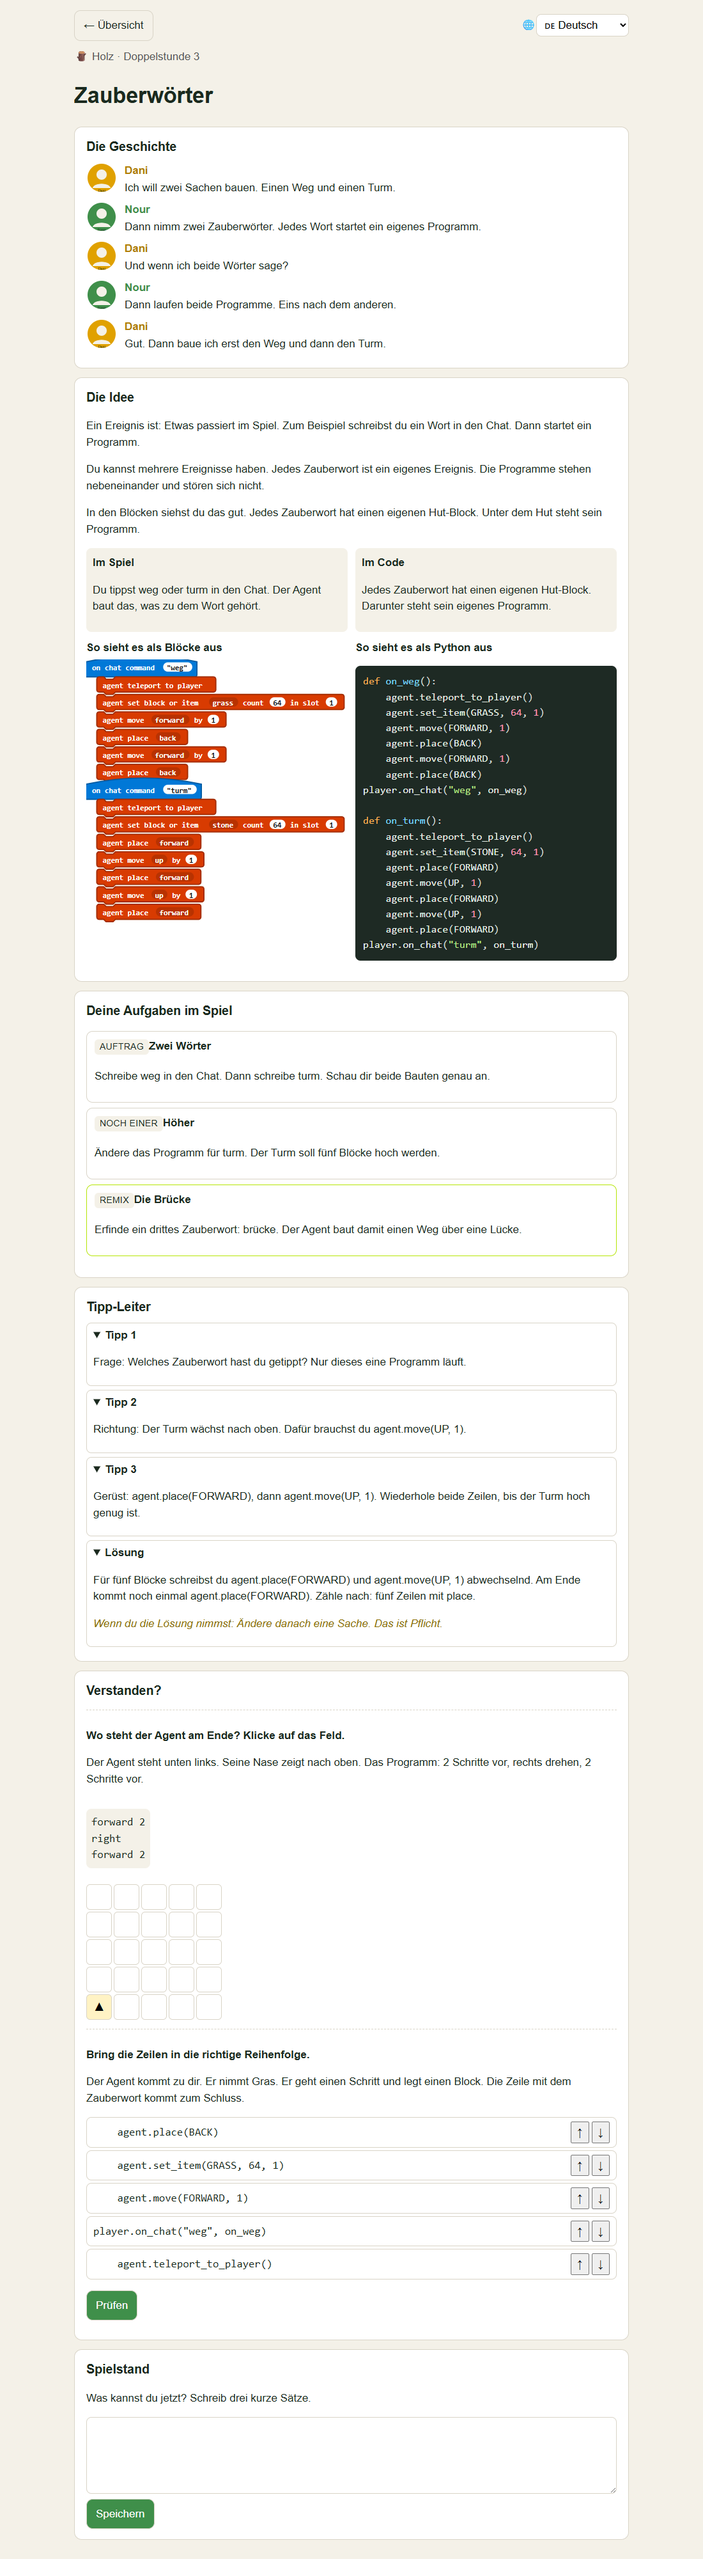
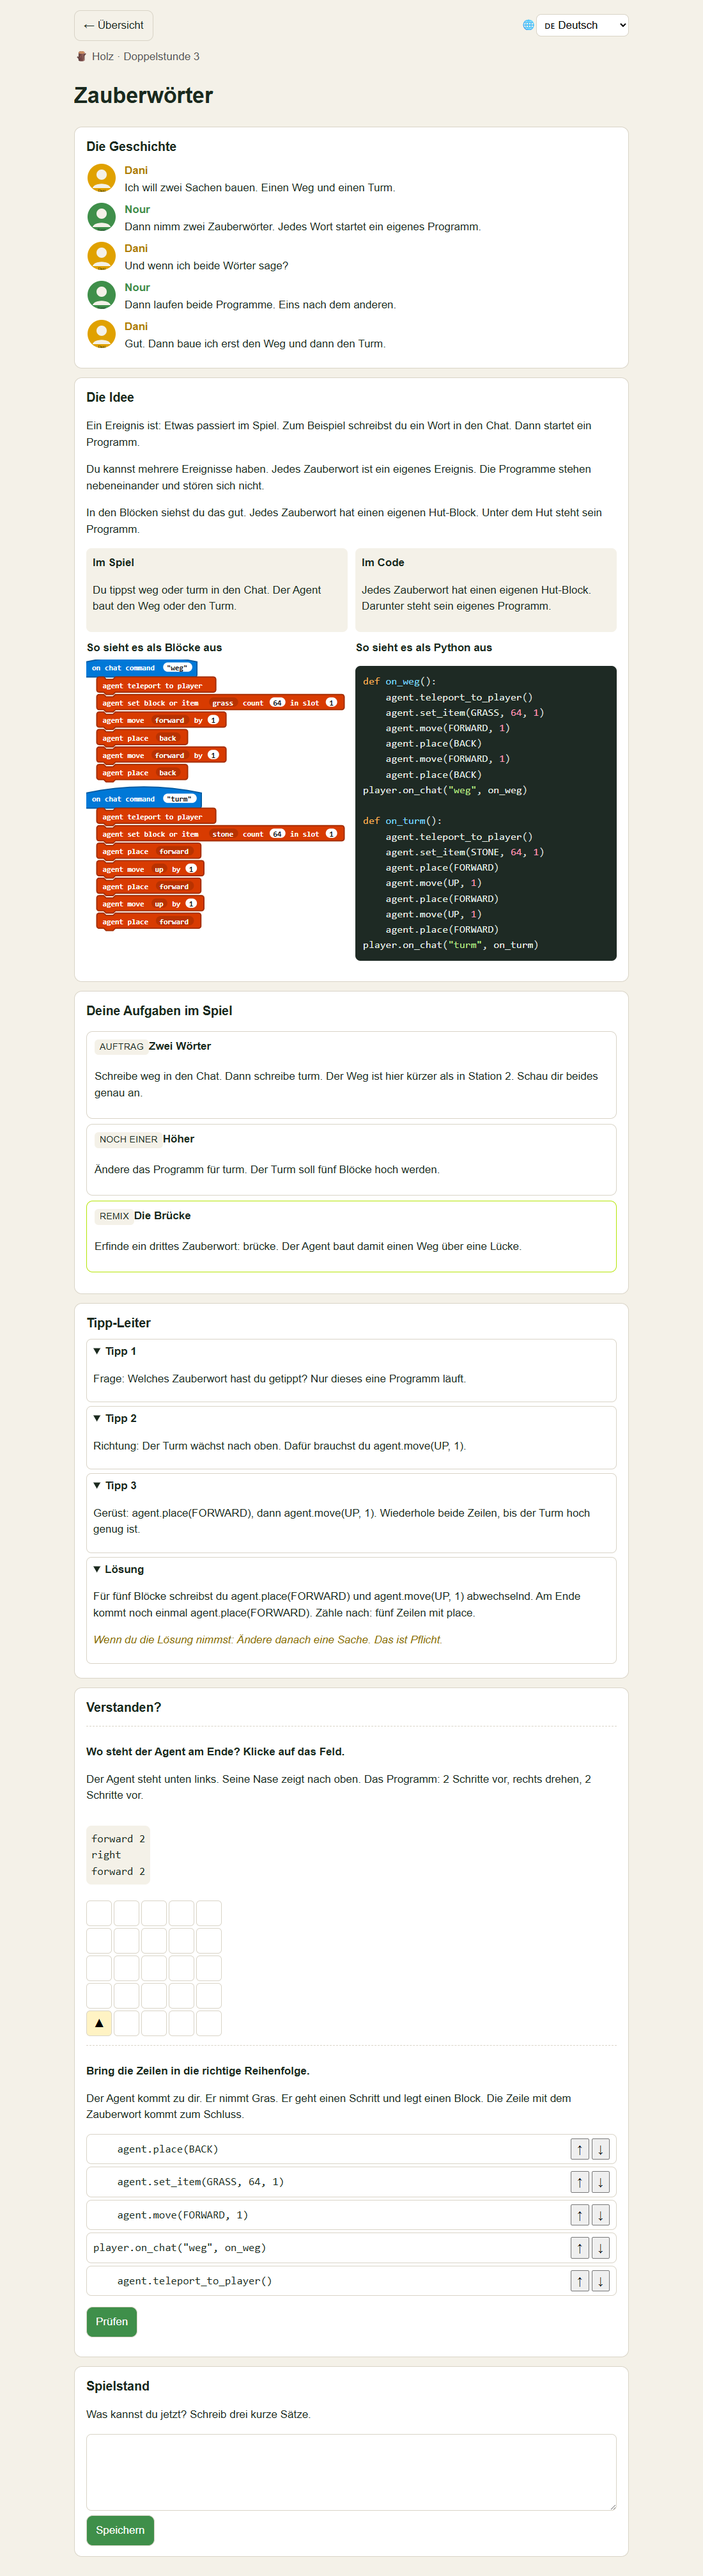
fix(content): s01 magic-word position, safe tip, s03 wording; block view hat gap
Der s01-Konzeptabsatz behauptete "Ganz unten steht das Zauberwort" — richtig
fuer das Python, falsch fuer die Blockgrafik direkt daneben, wo der Hut oben
sitzt. Er benennt jetzt beide Ansichten.

Die s01-Loesung sagte "ersetzt du hi durch hallo". In player.on_chat("hi",
on_hi) steht hi zweimal; stures Ersetzen erzeugt on_hallo und damit einen
Fehler. Jetzt: nur das Wort in den Anfuehrungszeichen.

Boss-Check Holz stand doppelt: die Saetze zu Tipp-Leiter, Share-Link und den
drei Saetzen sind wortgleich ui.bossCheckHint, das course-def.mjs ohnehin
anhaengt. Aufgabe und die drei Fragen bleiben, der Rest faellt weg.

Weiter: s03-Auftrag warnt vor der Verwechslung mit dem laengeren Weg aus
DS 2; zwei Formulierungen konkreter; mood der Schlusszeile nachdenklich
statt begeistert.

Die Parsons-Zeilen von s02 bekommen dieselbe Einrueckung wie s01/s03.
BlockView.layout() setzt vor jedem weiteren Hut eine halbe Zeile Luft —
die beiden Programme von s03 klebten sonst aneinander.

Claude-Session: https://claude.ai/code/session_019PenMpZcTxKvhNptZMbVVE

Changed region(s): [[0.1236, 0.0312, 0.8655, 0.9373], [0.4018, 0.0625, 0.4945, 0.0937], [0.2782, 0.7498, 0.3091, 0.7811]]

diff --git a/src/i18n/de.js b/src/i18n/de.js
@@ -85,7 +85,7 @@ export default {
         { kind: 'nochEiner', title: 'Dein Wort', text: 'Ändere das Zauberwort von hi zu hallo. Ändere die Schritte von 1 auf 3. Probier es aus.' },
         { kind: 'remix', title: 'Noch ein Wort', text: 'Erfinde ein zweites Zauberwort. Der Agent soll damit etwas anderes machen. Zeig es deinem Partner oder deiner Partnerin.' },
       ],
-      tipSolution: 'Schreibe agent.teleport_to_player() und darunter agent.move(FORWARD, 3). In der letzten Zeile ersetzt du hi durch hallo. Dann tippst du hallo in den Chat.',
+      tipSolution: 'Schreibe agent.teleport_to_player() und darunter agent.move(FORWARD, 3). In der letzten Zeile ersetzt du "hi" durch "hallo". Nur das Wort in den Anführungszeichen. Dann tippst du hallo in den Chat.',
       exercises: [
         { prompt: 'Der Agent steht unten in der Mitte. Seine Nase zeigt nach oben. Das Programm: 1 Schritt vor.' },
         { prompt: 'Der Agent soll zu dir kommen und einen Schritt gehen. Die Zeile mit dem Zauberwort kommt zum Schluss.' },
@@ -181,11 +181,11 @@ export default {
       title: 'Zauberwörter',
       storyShort: 'Ein Wort im Chat ist ein Ereignis. Jedes Zauberwort startet sein eigenes Programm. Du kannst mehrere Zauberwörter haben.',
       bridge: {
-        game: 'Du tippst weg oder turm in den Chat. Der Agent baut das, was zu dem Wort gehört.',
+        game: 'Du tippst weg oder turm in den Chat. Der Agent baut den Weg oder den Turm.',
         code: 'Jedes Zauberwort hat einen eigenen Hut-Block. Darunter steht sein eigenes Programm.',
       },
       tasks: [
-        { kind: 'auftrag', title: 'Zwei Wörter', text: 'Schreibe weg in den Chat. Dann schreibe turm. Schau dir beide Bauten genau an.' },
+        { kind: 'auftrag', title: 'Zwei Wörter', text: 'Schreibe weg in den Chat. Dann schreibe turm. Der Weg ist hier kürzer als in Station 2. Schau dir beides genau an.' },
         { kind: 'nochEiner', title: 'Höher', text: 'Ändere das Programm für turm. Der Turm soll fünf Blöcke hoch werden.' },
         { kind: 'remix', title: 'Die Brücke', text: 'Erfinde ein drittes Zauberwort: brücke. Der Agent baut damit einen Weg über eine Lücke.' },
       ],
@@ -230,7 +230,9 @@ export default {
       ],
       bossCheck: {
         title: 'Boss-Check Holz: Das L',
-        task: 'Der Agent legt ein L aus Blöcken: 4 Blöcke geradeaus, dann Ecke, dann 2 Blöcke. Ohne Tipp-Leiter. Gib den Share-Link ab und schreibe drei Sätze: Was macht dein Programm? Warum ist die Reihenfolge wichtig? Was war schwer?',
+        // Ohne Tipp-Leiter, Share-Link und die drei Saetze stehen schon in ui.bossCheckHint;
+        // course-def.mjs haengt den Hinweis hinter diese Aufgabe (sonst stuende alles doppelt da).
+        task: 'Der Agent legt ein L: erst 4 Blöcke geradeaus, dann 2 um die Ecke. Was macht dein Programm? Warum ist die Reihenfolge wichtig? Was war schwer?',
       },
     },
   },

diff --git a/src/i18n/ar.js b/src/i18n/ar.js
@@ -165,7 +165,7 @@ export default {
           "text": "Erfinde ein zweites Zauberwort. Der Agent soll damit etwas anderes machen. Zeig es deinem Partner oder deiner Partnerin."
         }
       ],
-      "tipSolution": "Schreibe agent.teleport_to_player() und darunter agent.move(FORWARD, 3). In der letzten Zeile ersetzt du hi durch hallo. Dann tippst du hallo in den Chat.",
+      "tipSolution": "Schreibe agent.teleport_to_player() und darunter agent.move(FORWARD, 3). In der letzten Zeile ersetzt du \"hi\" durch \"hallo\". Nur das Wort in den Anführungszeichen. Dann tippst du hallo in den Chat.",
       "exercises": [
         {
           "prompt": "Der Agent steht unten in der Mitte. Seine Nase zeigt nach oben. Das Programm: 1 Schritt vor."
@@ -353,14 +353,14 @@ export default {
       "title": "Zauberwörter",
       "storyShort": "Ein Wort im Chat ist ein Ereignis. Jedes Zauberwort startet sein eigenes Programm. Du kannst mehrere Zauberwörter haben.",
       "bridge": {
-        "game": "Du tippst weg oder turm in den Chat. Der Agent baut das, was zu dem Wort gehört.",
+        "game": "Du tippst weg oder turm in den Chat. Der Agent baut den Weg oder den Turm.",
         "code": "Jedes Zauberwort hat einen eigenen Hut-Block. Darunter steht sein eigenes Programm."
       },
       "tasks": [
         {
           "kind": "auftrag",
           "title": "Zwei Wörter",
-          "text": "Schreibe weg in den Chat. Dann schreibe turm. Schau dir beide Bauten genau an."
+          "text": "Schreibe weg in den Chat. Dann schreibe turm. Der Weg ist hier kürzer als in Station 2. Schau dir beides genau an."
         },
         {
           "kind": "nochEiner",
@@ -454,7 +454,7 @@ export default {
       ],
       "bossCheck": {
         "title": "Boss-Check Holz: Das L",
-        "task": "Der Agent legt ein L aus Blöcken: 4 Blöcke geradeaus, dann Ecke, dann 2 Blöcke. Ohne Tipp-Leiter. Gib den Share-Link ab und schreibe drei Sätze: Was macht dein Programm? Warum ist die Reihenfolge wichtig? Was war schwer?"
+        "task": "Der Agent legt ein L: erst 4 Blöcke geradeaus, dann 2 um die Ecke. Was macht dein Programm? Warum ist die Reihenfolge wichtig? Was war schwer?"
       }
     }
   }

diff --git a/src/i18n/en.js b/src/i18n/en.js
@@ -165,7 +165,7 @@ export default {
           "text": "Erfinde ein zweites Zauberwort. Der Agent soll damit etwas anderes machen. Zeig es deinem Partner oder deiner Partnerin."
         }
       ],
-      "tipSolution": "Schreibe agent.teleport_to_player() und darunter agent.move(FORWARD, 3). In der letzten Zeile ersetzt du hi durch hallo. Dann tippst du hallo in den Chat.",
+      "tipSolution": "Schreibe agent.teleport_to_player() und darunter agent.move(FORWARD, 3). In der letzten Zeile ersetzt du \"hi\" durch \"hallo\". Nur das Wort in den Anführungszeichen. Dann tippst du hallo in den Chat.",
       "exercises": [
         {
           "prompt": "Der Agent steht unten in der Mitte. Seine Nase zeigt nach oben. Das Programm: 1 Schritt vor."
@@ -353,14 +353,14 @@ export default {
       "title": "Zauberwörter",
       "storyShort": "Ein Wort im Chat ist ein Ereignis. Jedes Zauberwort startet sein eigenes Programm. Du kannst mehrere Zauberwörter haben.",
       "bridge": {
-        "game": "Du tippst weg oder turm in den Chat. Der Agent baut das, was zu dem Wort gehört.",
+        "game": "Du tippst weg oder turm in den Chat. Der Agent baut den Weg oder den Turm.",
         "code": "Jedes Zauberwort hat einen eigenen Hut-Block. Darunter steht sein eigenes Programm."
       },
       "tasks": [
         {
           "kind": "auftrag",
           "title": "Zwei Wörter",
-          "text": "Schreibe weg in den Chat. Dann schreibe turm. Schau dir beide Bauten genau an."
+          "text": "Schreibe weg in den Chat. Dann schreibe turm. Der Weg ist hier kürzer als in Station 2. Schau dir beides genau an."
         },
         {
           "kind": "nochEiner",
@@ -454,7 +454,7 @@ export default {
       ],
       "bossCheck": {
         "title": "Boss-Check Holz: Das L",
-        "task": "Der Agent legt ein L aus Blöcken: 4 Blöcke geradeaus, dann Ecke, dann 2 Blöcke. Ohne Tipp-Leiter. Gib den Share-Link ab und schreibe drei Sätze: Was macht dein Programm? Warum ist die Reihenfolge wichtig? Was war schwer?"
+        "task": "Der Agent legt ein L: erst 4 Blöcke geradeaus, dann 2 um die Ecke. Was macht dein Programm? Warum ist die Reihenfolge wichtig? Was war schwer?"
       }
     }
   }

diff --git a/src/i18n/es.js b/src/i18n/es.js
@@ -166,7 +166,7 @@ export default {
           "text": "Erfinde ein zweites Zauberwort. Der Agent soll damit etwas anderes machen. Zeig es deinem Partner oder deiner Partnerin."
         }
       ],
-      "tipSolution": "Schreibe agent.teleport_to_player() und darunter agent.move(FORWARD, 3). In der letzten Zeile ersetzt du hi durch hallo. Dann tippst du hallo in den Chat.",
+      "tipSolution": "Schreibe agent.teleport_to_player() und darunter agent.move(FORWARD, 3). In der letzten Zeile ersetzt du \"hi\" durch \"hallo\". Nur das Wort in den Anführungszeichen. Dann tippst du hallo in den Chat.",
       "exercises": [
         {
           "prompt": "Der Agent steht unten in der Mitte. Seine Nase zeigt nach oben. Das Programm: 1 Schritt vor."
@@ -354,14 +354,14 @@ export default {
       "title": "Zauberwörter",
       "storyShort": "Ein Wort im Chat ist ein Ereignis. Jedes Zauberwort startet sein eigenes Programm. Du kannst mehrere Zauberwörter haben.",
       "bridge": {
-        "game": "Du tippst weg oder turm in den Chat. Der Agent baut das, was zu dem Wort gehört.",
+        "game": "Du tippst weg oder turm in den Chat. Der Agent baut den Weg oder den Turm.",
         "code": "Jedes Zauberwort hat einen eigenen Hut-Block. Darunter steht sein eigenes Programm."
       },
       "tasks": [
         {
           "kind": "auftrag",
           "title": "Zwei Wörter",
-          "text": "Schreibe weg in den Chat. Dann schreibe turm. Schau dir beide Bauten genau an."
+          "text": "Schreibe weg in den Chat. Dann schreibe turm. Der Weg ist hier kürzer als in Station 2. Schau dir beides genau an."
         },
         {
           "kind": "nochEiner",
@@ -455,7 +455,7 @@ export default {
       ],
       "bossCheck": {
         "title": "Boss-Check Holz: Das L",
-        "task": "Der Agent legt ein L aus Blöcken: 4 Blöcke geradeaus, dann Ecke, dann 2 Blöcke. Ohne Tipp-Leiter. Gib den Share-Link ab und schreibe drei Sätze: Was macht dein Programm? Warum ist die Reihenfolge wichtig? Was war schwer?"
+        "task": "Der Agent legt ein L: erst 4 Blöcke geradeaus, dann 2 um die Ecke. Was macht dein Programm? Warum ist die Reihenfolge wichtig? Was war schwer?"
       }
     }
   }

diff --git a/src/i18n/it.js b/src/i18n/it.js
@@ -165,7 +165,7 @@ export default {
           "text": "Erfinde ein zweites Zauberwort. Der Agent soll damit etwas anderes machen. Zeig es deinem Partner oder deiner Partnerin."
         }
       ],
-      "tipSolution": "Schreibe agent.teleport_to_player() und darunter agent.move(FORWARD, 3). In der letzten Zeile ersetzt du hi durch hallo. Dann tippst du hallo in den Chat.",
+      "tipSolution": "Schreibe agent.teleport_to_player() und darunter agent.move(FORWARD, 3). In der letzten Zeile ersetzt du \"hi\" durch \"hallo\". Nur das Wort in den Anführungszeichen. Dann tippst du hallo in den Chat.",
       "exercises": [
         {
           "prompt": "Der Agent steht unten in der Mitte. Seine Nase zeigt nach oben. Das Programm: 1 Schritt vor."
@@ -353,14 +353,14 @@ export default {
       "title": "Zauberwörter",
       "storyShort": "Ein Wort im Chat ist ein Ereignis. Jedes Zauberwort startet sein eigenes Programm. Du kannst mehrere Zauberwörter haben.",
       "bridge": {
-        "game": "Du tippst weg oder turm in den Chat. Der Agent baut das, was zu dem Wort gehört.",
+        "game": "Du tippst weg oder turm in den Chat. Der Agent baut den Weg oder den Turm.",
         "code": "Jedes Zauberwort hat einen eigenen Hut-Block. Darunter steht sein eigenes Programm."
       },
       "tasks": [
         {
           "kind": "auftrag",
           "title": "Zwei Wörter",
-          "text": "Schreibe weg in den Chat. Dann schreibe turm. Schau dir beide Bauten genau an."
+          "text": "Schreibe weg in den Chat. Dann schreibe turm. Der Weg ist hier kürzer als in Station 2. Schau dir beides genau an."
         },
         {
           "kind": "nochEiner",
@@ -454,7 +454,7 @@ export default {
       ],
       "bossCheck": {
         "title": "Boss-Check Holz: Das L",
-        "task": "Der Agent legt ein L aus Blöcken: 4 Blöcke geradeaus, dann Ecke, dann 2 Blöcke. Ohne Tipp-Leiter. Gib den Share-Link ab und schreibe drei Sätze: Was macht dein Programm? Warum ist die Reihenfolge wichtig? Was war schwer?"
+        "task": "Der Agent legt ein L: erst 4 Blöcke geradeaus, dann 2 um die Ecke. Was macht dein Programm? Warum ist die Reihenfolge wichtig? Was war schwer?"
       }
     }
   }

diff --git a/src/i18n/uk.js b/src/i18n/uk.js
@@ -166,7 +166,7 @@ export default {
           "text": "Erfinde ein zweites Zauberwort. Der Agent soll damit etwas anderes machen. Zeig es deinem Partner oder deiner Partnerin."
         }
       ],
-      "tipSolution": "Schreibe agent.teleport_to_player() und darunter agent.move(FORWARD, 3). In der letzten Zeile ersetzt du hi durch hallo. Dann tippst du hallo in den Chat.",
+      "tipSolution": "Schreibe agent.teleport_to_player() und darunter agent.move(FORWARD, 3). In der letzten Zeile ersetzt du \"hi\" durch \"hallo\". Nur das Wort in den Anführungszeichen. Dann tippst du hallo in den Chat.",
       "exercises": [
         {
           "prompt": "Der Agent steht unten in der Mitte. Seine Nase zeigt nach oben. Das Programm: 1 Schritt vor."
@@ -354,14 +354,14 @@ export default {
       "title": "Zauberwörter",
       "storyShort": "Ein Wort im Chat ist ein Ereignis. Jedes Zauberwort startet sein eigenes Programm. Du kannst mehrere Zauberwörter haben.",
       "bridge": {
-        "game": "Du tippst weg oder turm in den Chat. Der Agent baut das, was zu dem Wort gehört.",
+        "game": "Du tippst weg oder turm in den Chat. Der Agent baut den Weg oder den Turm.",
         "code": "Jedes Zauberwort hat einen eigenen Hut-Block. Darunter steht sein eigenes Programm."
       },
       "tasks": [
         {
           "kind": "auftrag",
           "title": "Zwei Wörter",
-          "text": "Schreibe weg in den Chat. Dann schreibe turm. Schau dir beide Bauten genau an."
+          "text": "Schreibe weg in den Chat. Dann schreibe turm. Der Weg ist hier kürzer als in Station 2. Schau dir beides genau an."
         },
         {
           "kind": "nochEiner",
@@ -455,7 +455,7 @@ export default {
       ],
       "bossCheck": {
         "title": "Boss-Check Holz: Das L",
-        "task": "Der Agent legt ein L aus Blöcken: 4 Blöcke geradeaus, dann Ecke, dann 2 Blöcke. Ohne Tipp-Leiter. Gib den Share-Link ab und schreibe drei Sätze: Was macht dein Programm? Warum ist die Reihenfolge wichtig? Was war schwer?"
+        "task": "Der Agent legt ein L: erst 4 Blöcke geradeaus, dann 2 um die Ecke. Was macht dein Programm? Warum ist die Reihenfolge wichtig? Was war schwer?"
       }
     }
   }

diff --git a/src/content/de.js b/src/content/de.js
@@ -15,7 +15,7 @@ export default {
         'Der Agent ist dein Roboter in Minecraft. Er geht, dreht sich und legt Blöcke. Er macht nur das, was im Code steht.',
         'Deinen Code schreibst du im Code Builder. Du öffnest ihn mit der Taste C. Dort wählst du Blöcke oder Python.',
         'Ein Befehl ist eine Zeile Code. agent.move(FORWARD, 1) heißt: Geh einen Schritt vor. Jede Zeile macht genau eine Sache.',
-        'Ganz unten steht das Zauberwort. Hier ist es hi. Du tippst hi in den Chat. Erst dann läuft dein Programm.',
+        'Im Python steht das Zauberwort ganz unten. In den Blöcken sitzt es ganz oben. Hier ist es hi. Du tippst hi in den Chat. Erst dann läuft dein Programm.',
       ],
       tips: [
         'Frage: Hast du das Zauberwort in den Chat geschrieben? Ohne Chat startet nichts.',
@@ -50,7 +50,7 @@ export default {
         { who: 'nour', mood: 'erklaerend', text: 'Dann nimm zwei Zauberwörter. Jedes Wort startet ein eigenes Programm.' },
         { who: 'dani', mood: 'fragend', text: 'Und wenn ich beide Wörter sage?' },
         { who: 'nour', mood: 'erklaerend', text: 'Dann laufen beide Programme. Eins nach dem anderen.' },
-        { who: 'dani', mood: 'begeistert', text: 'Gut. Dann baue ich erst den Weg und dann den Turm.' },
+        { who: 'dani', mood: 'nachdenklich', text: 'Gut. Dann baue ich erst den Weg und dann den Turm.' },
       ],
       concept: [
         'Ein Ereignis ist: Etwas passiert im Spiel. Zum Beispiel schreibst du ein Wort in den Chat. Dann startet ein Programm.',

diff --git a/tests/blockview.test.jsx b/tests/blockview.test.jsx
@@ -14,6 +14,18 @@ test('BlockView zeichnet alle Bloecke von s02 mit englischen Labels', () => {
   expect(container.querySelector('[data-kind="agent.move"] path').getAttribute('fill')).toBe('#d83b01');
 });
 
+test('zwei Hutbloecke (s03) stehen mit Luft untereinander, nicht auf Stoss', () => {
+  const { container } = render(<BlockView blocks={STATIONS.s03.blocks} />);
+  const yOf = (el) => Number(el.getAttribute('transform').match(/translate\([\d.]+,([\d.]+)\)/)[1]);
+  const rows = [...container.querySelectorAll('[data-kind]')];
+  const hats = rows.filter((r) => r.dataset.kind === 'onChat');
+  expect(hats).toHaveLength(2);
+  const ROW = 30; // wie in BlockView.jsx
+  // Die Zeile direkt vor dem zweiten Hut ist die letzte des ersten Programms.
+  const lastOfFirstProgram = yOf(rows[rows.indexOf(hats[1]) - 1]);
+  expect(yOf(hats[1])).toBeGreaterThan(lastOfFirstProgram + ROW);
+});
+
 test('BlockView rendert bei leerem Array kein svg und wirft nicht', () => {
   const { container } = render(<BlockView blocks={[]} />);
   expect(container.querySelector('svg')).toBeNull();

diff --git a/tests/station.test.jsx b/tests/station.test.jsx
@@ -34,7 +34,8 @@ test('Sortier-Puzzle laesst sich loesen', () => {
   render(<StationView id="s02" lang="de" />);
   const list = screen.getByTestId('parsons');
   // Solange sortieren, bis die Reihenfolge stimmt: Zeile "teleport" ganz nach oben usw.
-  const want = ['agent.teleport_to_player()', 'agent.move(FORWARD, 2)', 'agent.turn(LEFT_TURN)', 'agent.move(FORWARD, 1)'];
+  // Rumpfzeilen tragen ihre Einrueckung mit (vier Leerzeichen), genau wie in den Daten.
+  const want = ['    agent.teleport_to_player()', '    agent.move(FORWARD, 2)', '    agent.turn(LEFT_TURN)', '    agent.move(FORWARD, 1)'];
   for (let target = 0; target < want.length; target++) {
     for (let guard = 0; guard < 10; guard++) {
       const items = [...list.querySelectorAll('li')].map((li) => li.dataset.line);

diff --git a/src/data/stations.js b/src/data/stations.js
@@ -75,12 +75,13 @@ player.on_chat("weg", on_weg)`,
         program: ['forward 2', 'left', 'forward 1'],
       },
       {
+        // Rumpfzeilen mit Einrueckung wie bei s01/s03 — die drei Stationen sollen gleich aussehen.
         type: 'parsons',
         lines: [
-          'agent.teleport_to_player()',
-          'agent.move(FORWARD, 2)',
-          'agent.turn(LEFT_TURN)',
-          'agent.move(FORWARD, 1)',
+          '    agent.teleport_to_player()',
+          '    agent.move(FORWARD, 2)',
+          '    agent.turn(LEFT_TURN)',
+          '    agent.move(FORWARD, 1)',
         ],
       },
     ],

diff --git a/src/components/BlockView.jsx b/src/components/BlockView.jsx
@@ -18,6 +18,9 @@ function layout(tree, depth = 0, y = 0, rows = []) {
   for (const b of tree) {
     assertKnown(b);
     const spec = BLOCK_SPECS[b.kind];
+    // Luft vor jedem weiteren Hut: zwei Programme nebeneinander (s03: "weg" und "turm")
+    // klebten sonst aneinander und sahen aus wie ein einziger Stapel.
+    if (spec.hat && rows.length > 0) y += ROW * 0.5;
     rows.push({ b, spec, depth, y, w: measure(spec, b) });
     y += ROW;
     if (spec.c || spec.hat) {
